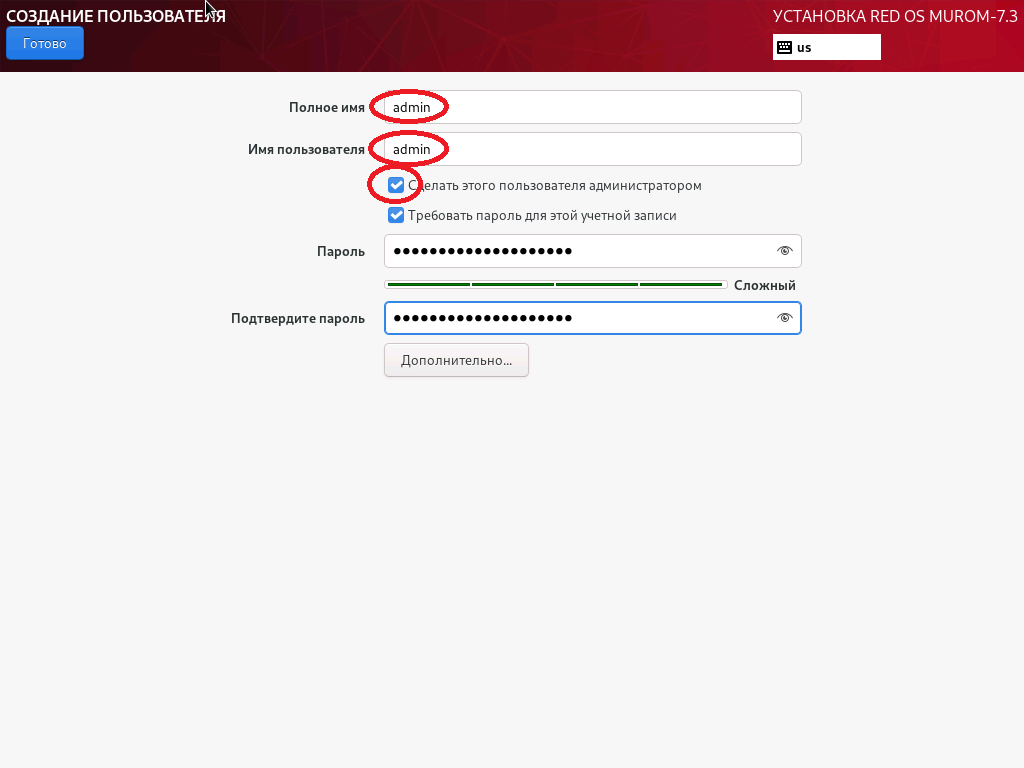
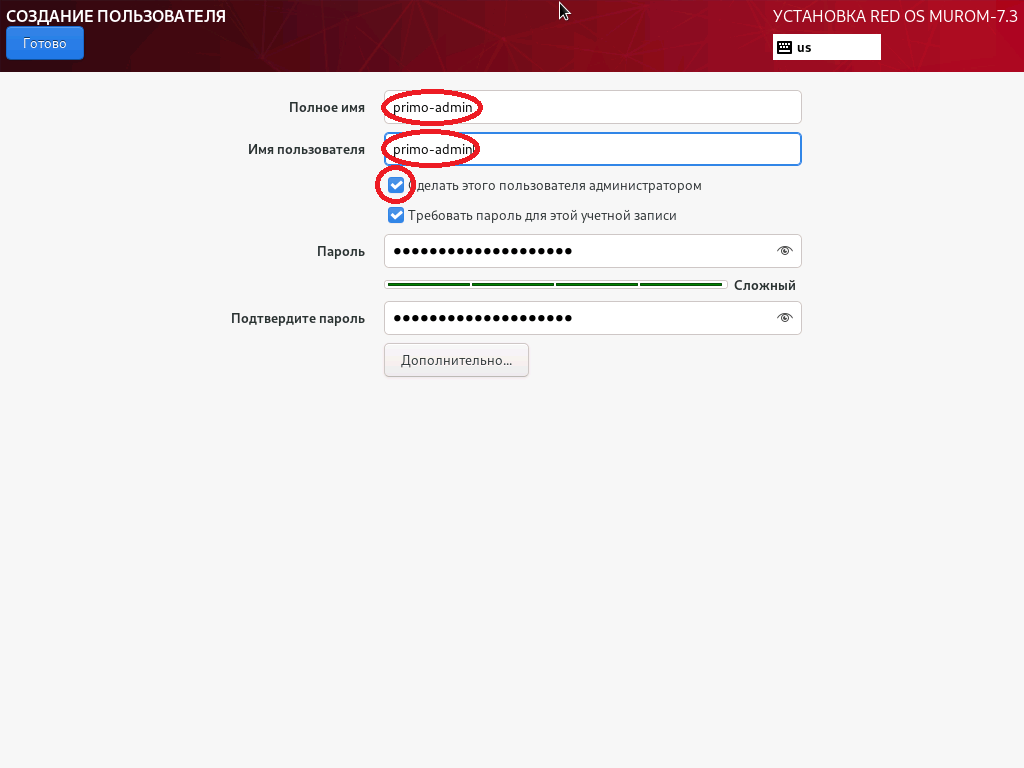
Добавлена дока по Astra Linux

diff --git a/Linux/astra-orel-1.7/robotmachine-astra.md b/Linux/astra-orel-1.7/robotmachine-astra.md
@@ -1,0 +1,128 @@
+# Настройка машины робота
+
+## Действия при установке Astra Linux 1.7
+
+При установке машины робота под управлением Astra Linux 1.7 необходимо:
+- на экране **Настройка учётных записей и паролей** создать пользователя-администратора (далее - primo-admin).
+
+![СОЗДАНИЕ ПОЛЬЗОВАТЕЛЯ](robot-astra-create-admin.png)
+
+Установка дополнительного ПО и создание дополнительных пользователей будет описана ниже.
+
+## Настройка дополнительного ПО
+
+1. Выполните подключение машины робота к репозиториям `main`, `update`, `base` и `extended`. Сами репозитории описаны в статье [Интернет-репозитории Astra Linux Special Edition x.7](https://wiki.astralinux.ru/pages/viewpage.action?pageId=158598882). Настройка локальных зеркал этих репозиториев описана в статье [Создание репозиториев для операционной системы Astra Linux Special Edition x.7 в закрытом сегменте](https://wiki.astralinux.ru/pages/viewpage.action?pageId=199148426)
+
+**!!ВАЖНО!! Локальные репозитории необходимо выгружать на машине, имеющей доступ в Интернет.**
+
+Рекомендуется выделить одну машину под управлением Astra Linux 1.7 для размещения на ней сервера репозиториев.
+
+2. Проверьте доступность репозиториев, используя следующую команду:
+```
+[primo-admin@astra-robot ~]$ sudo apt update
+```
+
+Репозитории `main`, `update`, `base` и `extended` должны присутствовать в выводе команды.
+
+3. Установите необходимо для работы робота ПО:
+```
+[primo-admin@astra-robot ~]$ sudo apt -y install xvfb python3-numpy python3-opencv xdotool dotnet-sdk-6.0
+```
+
+## Настройка учетной записи агента
+
+Для работы агента оркестратора и роботов необходима общая группа:
+```
+[primo-admin@astra-robot ~]$ sudo groupadd primo-rpa
+```
+
+Для работы агента оркестратора необходима учётная запись:
+```
+[primo-admin@astra-robot ~]$ sudo useradd -g primo-rpa -m -s /bin/bash agent
+```
+
+Если необходимо, то учётной записи можно задать пароль:
+```
+[primo-admin@redos-robot ~]$ sudo passwd agent
+Новый пароль : ***
+Повторите ввод нового пароля : ***
+passwd: пароль успешно обновлён
+```
+
+Для запуска агентом оркестратора заданий роботов без прав пользователя `root` необходима следующая настройка:
+```
+[primo-admin@astra-robot ~]$ sudo sh -c "echo 'primo-agent ALL = (%primo-rpa) NOPASSWD: /bin/at' > /etc/sudoers.d/primo-rpa-agent"
+```
+
+## Установка агента
+
+Разворачивание файлов агента оркестратора на машине роботов (файл `Agent-linux.zip` должен находиться в каталоге `/srv/samba/shared/install`):
+```
+[primo-admin@astra-robot ~]$ sudo mkdir -p /opt/Primo/Agent /opt/Primo/LTools
+[primo-admin@astra-robot ~]$ sudo unzip /srv/samba/shared/install/Agent-linux.zip -d /opt/Primo/Agent
+[primo-admin@astra-robot ~]$ sudo chmod a+x /opt/Primo/Agent/Primo.Orchestrator.Agent
+[primo-admin@astra-robot ~]$ sudo chown -R agent.primo-rpa /opt/Primo/Agent /opt/Primo/LTools
+```
+
+Устанавливаем агент оркестратора как службу и настраиваем автозапуск:
+```
+[primo-admin@astra-robot ~]$ sudo cp /opt/Primo/Agent/Primo.Orchestrator.Agent.service /etc/systemd/system/
+[primo-admin@astra-robot ~]$ sudo systemctl daemon-reload
+[primo-admin@astra-robot ~]$ sudo systemctl enable /etc/systemd/system/Primo.Orchestrator.Agent.service
+```
+
+В конфигурационном файле `appsettings.ProdLinux.json` необходимо указать адрес Оркестратора и TenantId (если эта машина не в тенанте по-умолчанию) и пользователя из тенанта:
+
+![Настройка доступа к Оркестратору](robot-setup-orch.png)
+
+Запуск службы:
+```
+[primo-admin@astra-robot ~]$ sudo systemctl start Primo.Orchestrator.Agent
+```
+
+Просмотр статуса службы:
+```
+[primo-admin@astra-robot ~]$ sudo systemctl status Primo.Orchestrator.Agent
+```
+
+Просмотр журнала службы:
+```
+[primo-admin@astra-robot ~]$ sudo journalctl -u Primo.Orchestrator.Agent
+```
+
+## Настройка правила брандмауэра `ufw`
+
+Установка и настройка брандмауэра `ufw` описана в статье [Межсетевой экран ufw](https://wiki.astralinux.ru/pages/viewpage.action?pageId=27362474).
+
+Для разрешения доступа к API агента оркестратора необходимо выполнить следующее:
+```
+[primo-admin@astra-robot ~]$ sudo ufw allow 5002/tcp
+```
+
+## Настройка учетной записи робота
+
+Создание учётной записи робота `robot1`:
+```
+[primo-admin@astra-robot ~]$ sudo useradd -g primo-rpa -m -s /bin/bash robot1
+```
+
+Установка пароля учётной записи робота `robot1`:
+```
+[primo-admin@astra-robot ~]$ sudo passwd robot1
+Новый пароль : ***
+Повторите ввод нового пароля : ***
+passwd: пароль успешно обновлён
+```
+
+После создания учётной записи робота на машине робота необходимо войти в графический сеанс этой учётной записи для инициализации графического окружения.
+
+Рекомендуется отключить фон рабочего стола для экономии памяти. Для этого используйте: 
+
+ПКМ на рабочем столе -> Свойства -> Обои, удалить обои и логотип.
+
+Запомните разрешение экрана, при котором тестируются действия робота - поиск изображений, клики и т.п., чтобы настроить такое же разрешение пользователю робота в Оркестраторе:
+
+Пуск -> Настройка монитора.
+
+**Рекомендации по настройке пользователя робота в Оркестраторе (пользователя РДП):**  
+Для экономии памяти следует использовать минимально необходимую глубину цвета экрана - 24 или 16 бит.
